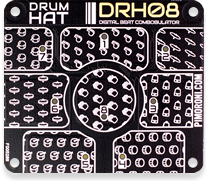
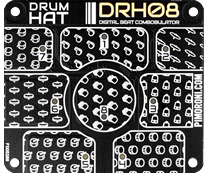
Added and tweaked many images, removed drop shadows

diff --git a/src/en/overlay/ab-adc-differential-pi.md b/src/en/overlay/ab-adc-differential-pi.md
@@ -3,6 +3,7 @@
 name: ADC Differential Pi
 class: board
 type: other
+image: 'ab-adc-differential-pi.png'
 manufacturer: AB Electronics UK
 description: 8 channel Analogue to Digital Converter
 url: https://www.abelectronics.co.uk/p/65/ADC-Differential-Pi-Raspberry-Pi-Analogue-to-Digital-converter

diff --git a/src/en/overlay/ab-adc-pi-plus.md b/src/en/overlay/ab-adc-pi-plus.md
@@ -3,6 +3,7 @@
 name: ADC Pi Plus
 class: board
 type: other
+image: 'ab-adc-pi-plus.png'
 manufacturer: AB Electronics UK
 description: 8 channel Analogue to Digital Converter
 url: https://www.abelectronics.co.uk/p/56/ADC-Pi-Plus-Raspberry-Pi-Analogue-to-Digital-converter

diff --git a/src/en/overlay/ab-rtc-pi-plus.md b/src/en/overlay/ab-rtc-pi-plus.md
@@ -3,6 +3,7 @@
 name: RTC Pi Plus
 class: board
 type: other
+image: 'ab-rtc-pi-plus.png'
 manufacturer: AB Electronics UK
 description: Real-Time Clock Module for the Raspberry Pi
 url: https://www.abelectronics.co.uk/p/52/RTC-Pi-Plus

diff --git a/src/en/overlay/ab-1-wire-plus.md b/src/en/overlay/ab-1-wire-plus.md
@@ -3,6 +3,7 @@
 name: 1 Wire Pi Plus
 class: board
 type: other
+image: 'ab-1-wire-pi-plus.png'
 manufacturer: AB Electronics UK
 description: 1-Wire to I2C host interface
 url: https://www.abelectronics.co.uk/p/60/1-Wire-Pi-Plus

diff --git a/src/en/overlay/ab-serial-pi-plus.md b/src/en/overlay/ab-serial-pi-plus.md
@@ -3,6 +3,7 @@
 name: Serial Pi Plus
 class: board
 type: other
+image: 'ab-serial-pi-plus.png'
 manufacturer: AB Electronics UK
 description: UART to RS232 Converter
 url: https://www.abelectronics.co.uk/p/51/Serial-Pi-Plus

diff --git a/src/en/overlay/ab-io-pi-plus.md b/src/en/overlay/ab-io-pi-plus.md
@@ -3,6 +3,7 @@
 name: IO Pi Plus
 class: board
 type: other
+image: 'ab-io-pi-plus.png'
 manufacturer: AB Electronics UK
 description: 32 Channel Digital Expansion Board
 url: https://www.abelectronics.co.uk/p/54/IO-Pi-Plus
